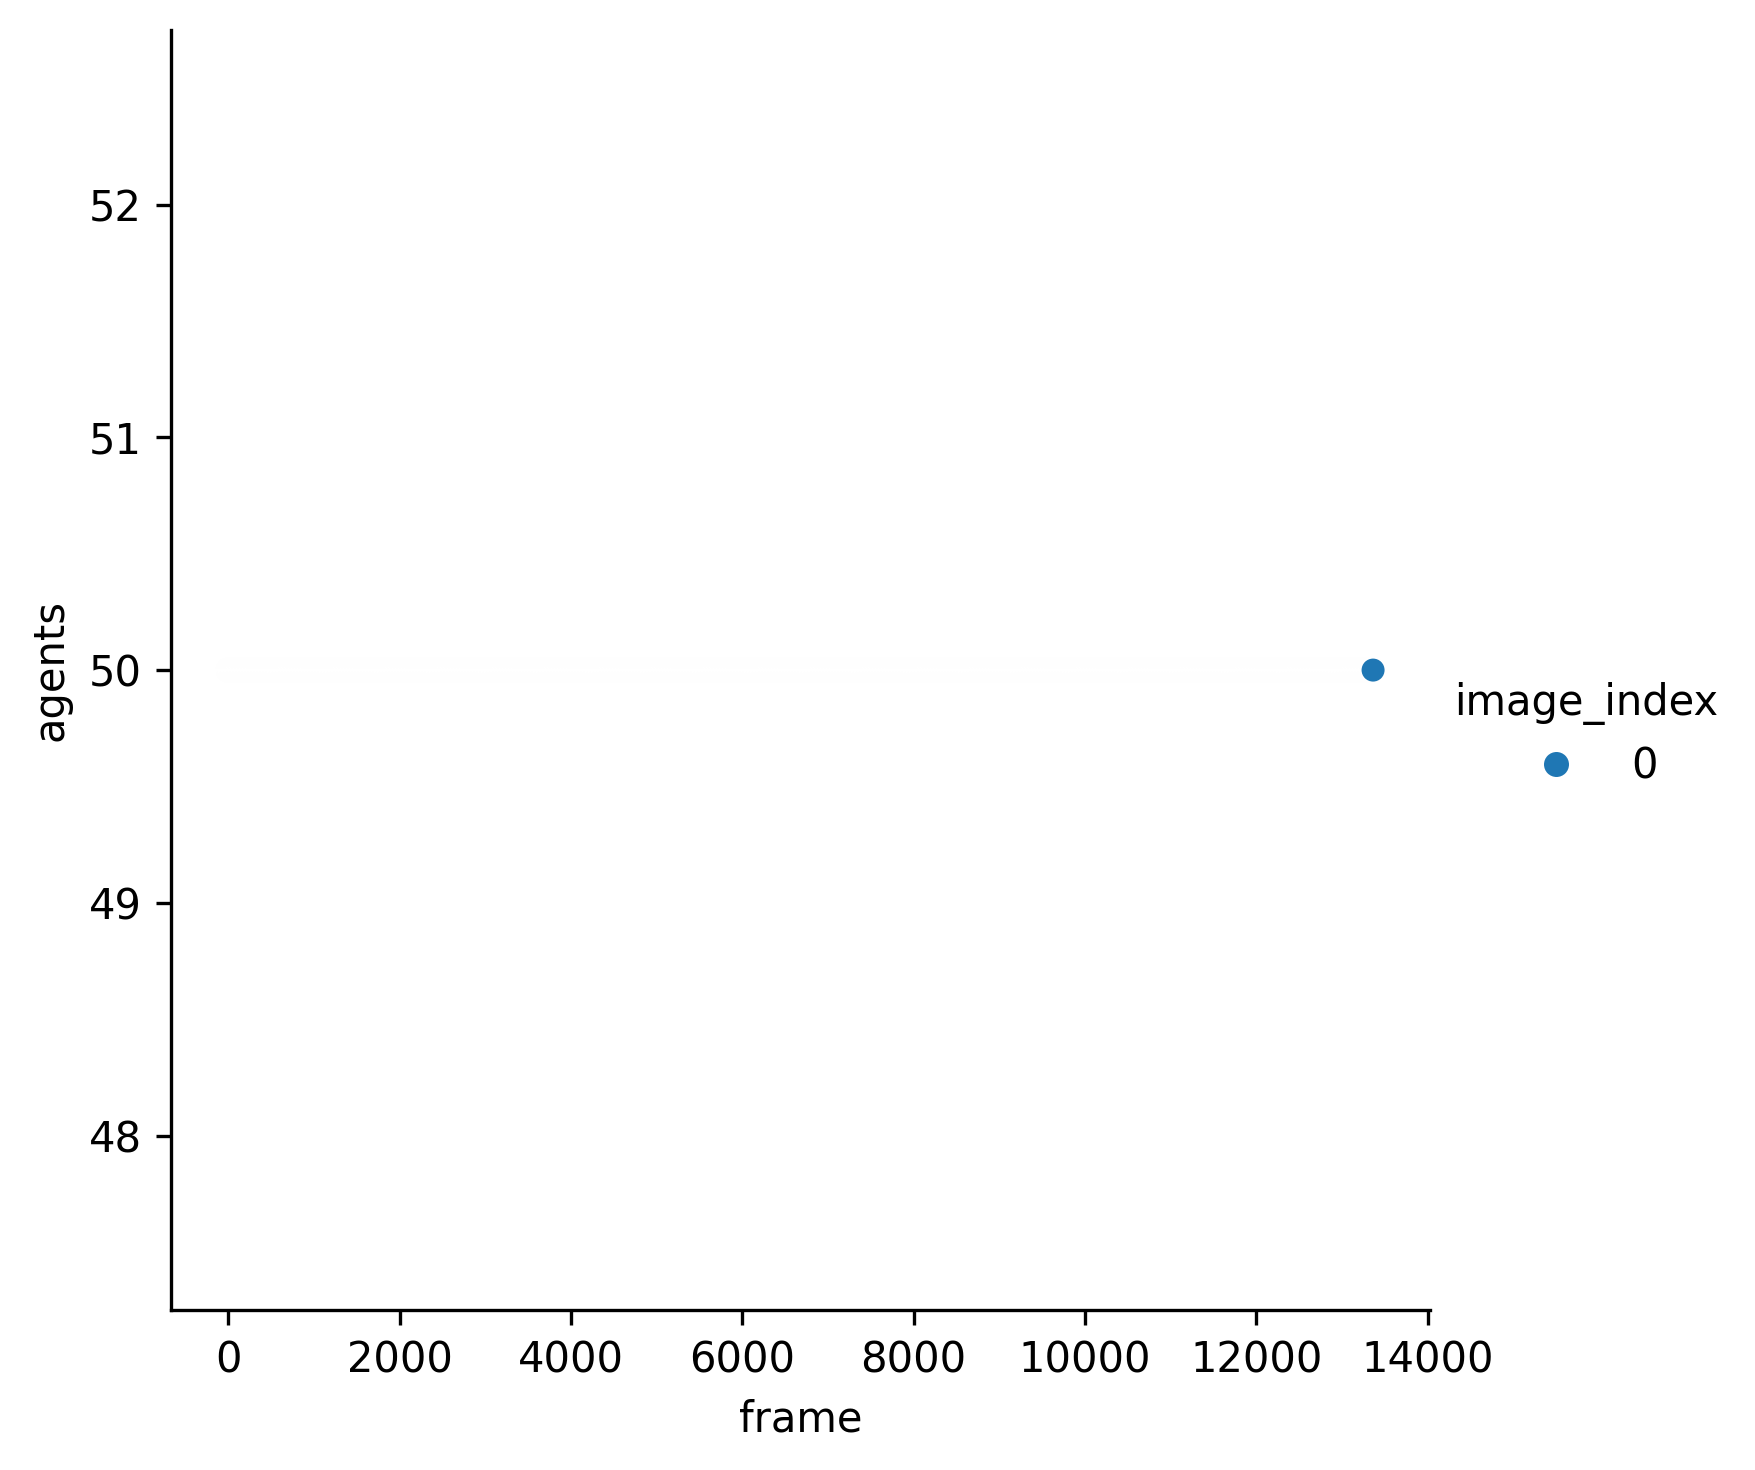
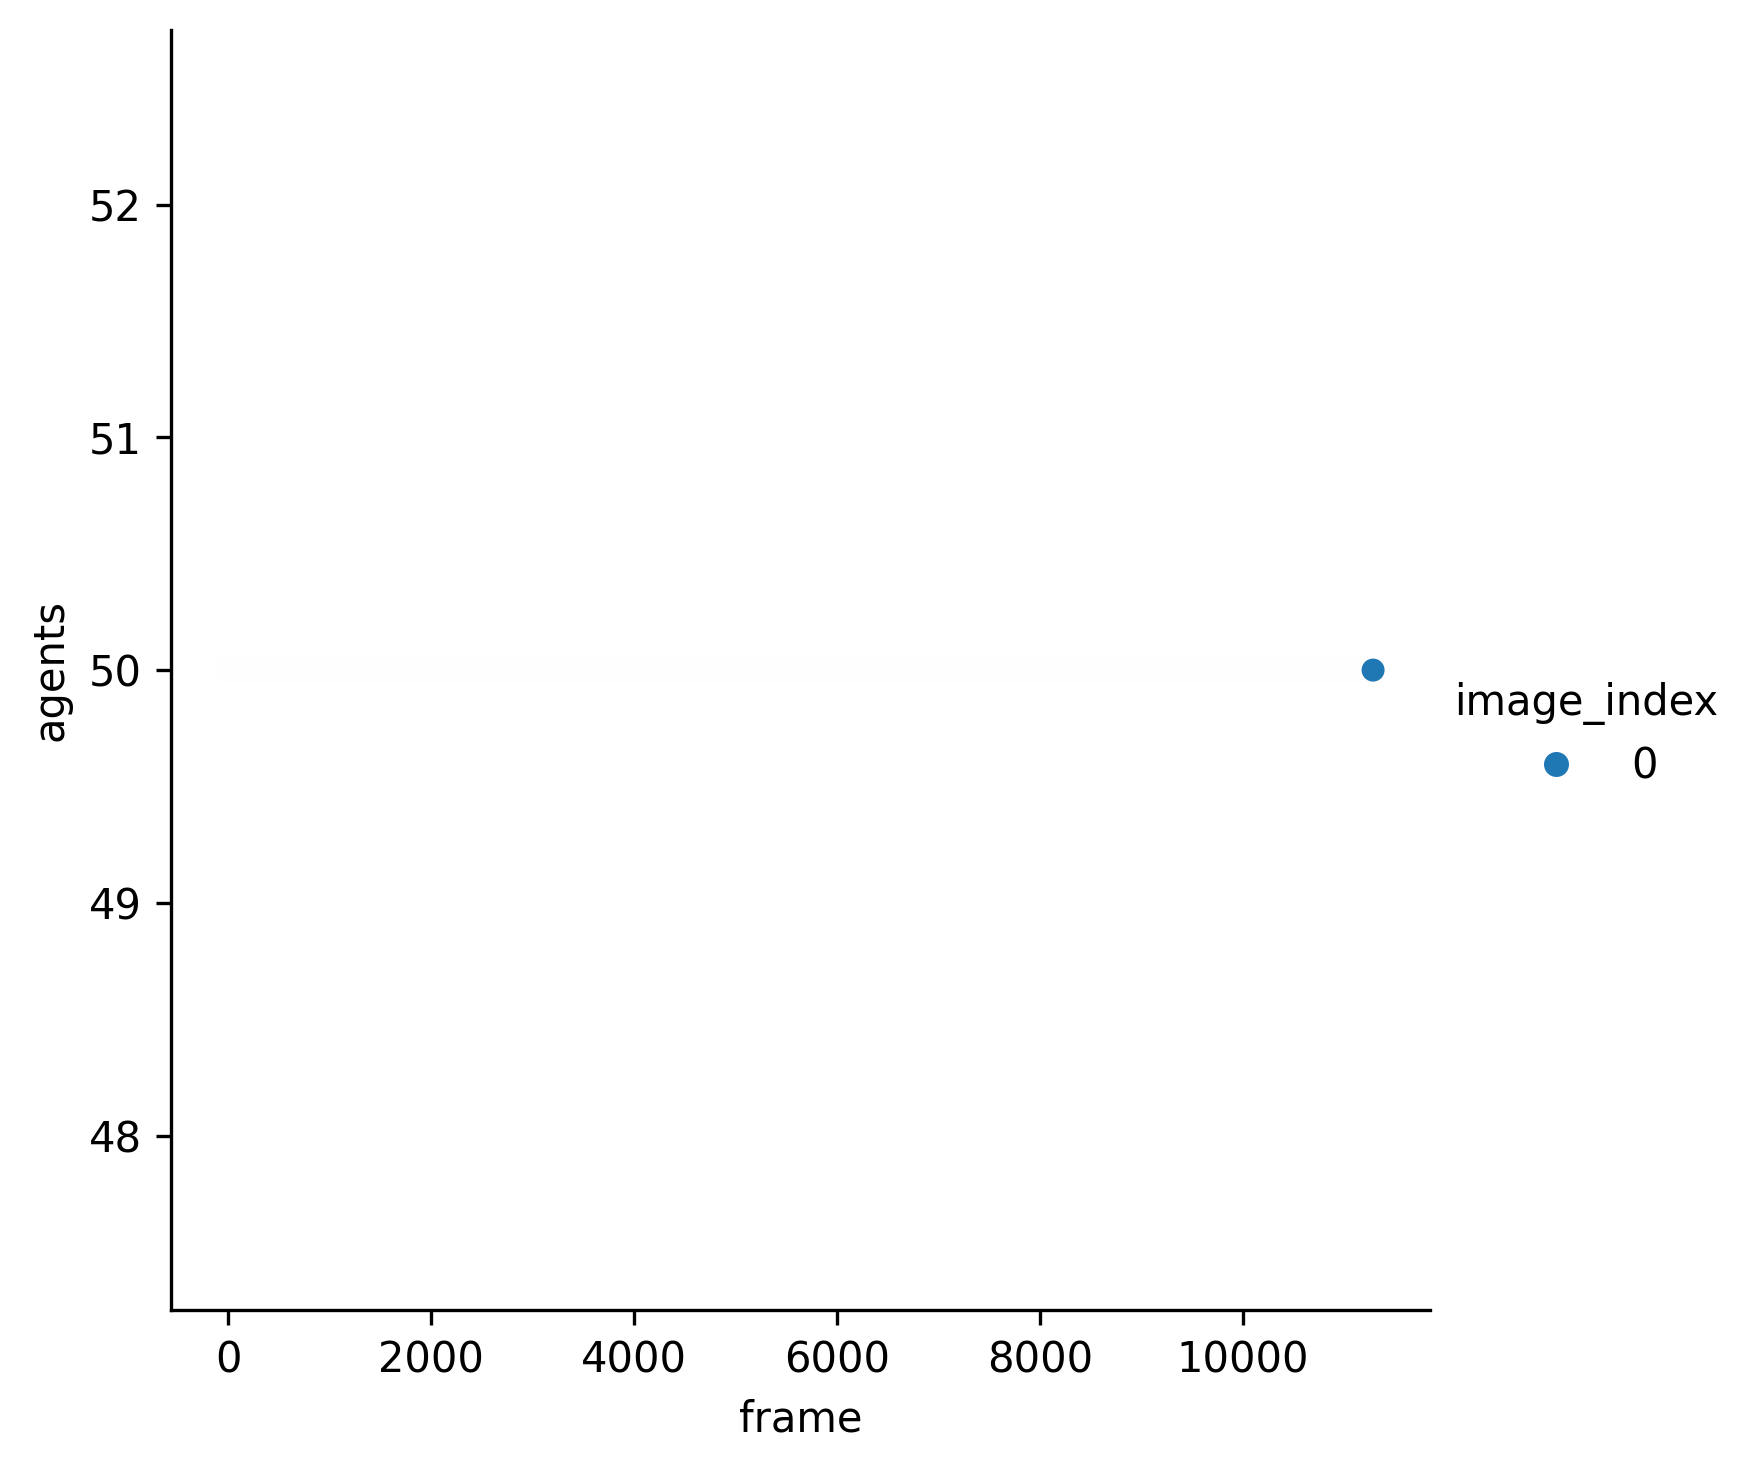
upating

Changed region(s): [[0.3077, 0.8878, 0.6462, 0.949], [0.6769, 0.8878, 0.8615, 0.949], [0.2154, 0.8878, 0.2769, 0.949]]

diff --git a/Assignment_1/Aggregation_Stage_1.py b/Assignment_1/Aggregation_Stage_1.py
@@ -24,7 +24,7 @@ class AggregationConfig(Config):
     site_width: int = 0                             
     site_height: int = 0                
 
-class Particle(Agent):
+class Cockroach(Agent):
     config: AggregationConfig
 
     def __init__(self, images, simulation, pos=None, move=None):
@@ -168,6 +168,14 @@ class Particle(Agent):
                 self.still()
         elif self.state == 'leaving':
             self.leaving()
+
+
+                # Save additional data
+        in_proximity = self.in_proximity_accuracy().count()
+        self.save_data("in_proximity", in_proximity)
+        self.save_data("state", self.state)
+
+
         return super().update()
 
 class AggregationSimulation(Simulation):
@@ -216,14 +224,21 @@ df = (
             radius=50
         )
     )
-    .batch_spawn_agents(50, Particle, images=["Assignment_0/images/green.png"])
+    .batch_spawn_agents(50, Cockroach, images=["Assignment_0/images/green.png"])
     .spawn_site("Assignment_0/images/bubble-full.png", x=250, y=375)
     .spawn_site("Assignment_0/images/bubble-full-resized.png", x=500, y=375)
     .run()
+    
+    
+    
     .snapshots 
-    .group_by(["frame","image_index"])
-    .agg(pl.count("id").alias("agents"))
-    .sort(["frame", "image_index"])
+    .group_by(["frame","id"])
+    .agg([
+        pl.count("id").alias("agents"),
+        pl.mean("in_proximity").alias("avg_in_proximity"),
+        pl.first("state").alias("state")
+    ])
+    .sort(["frame", "id"])
 
 )
 )
